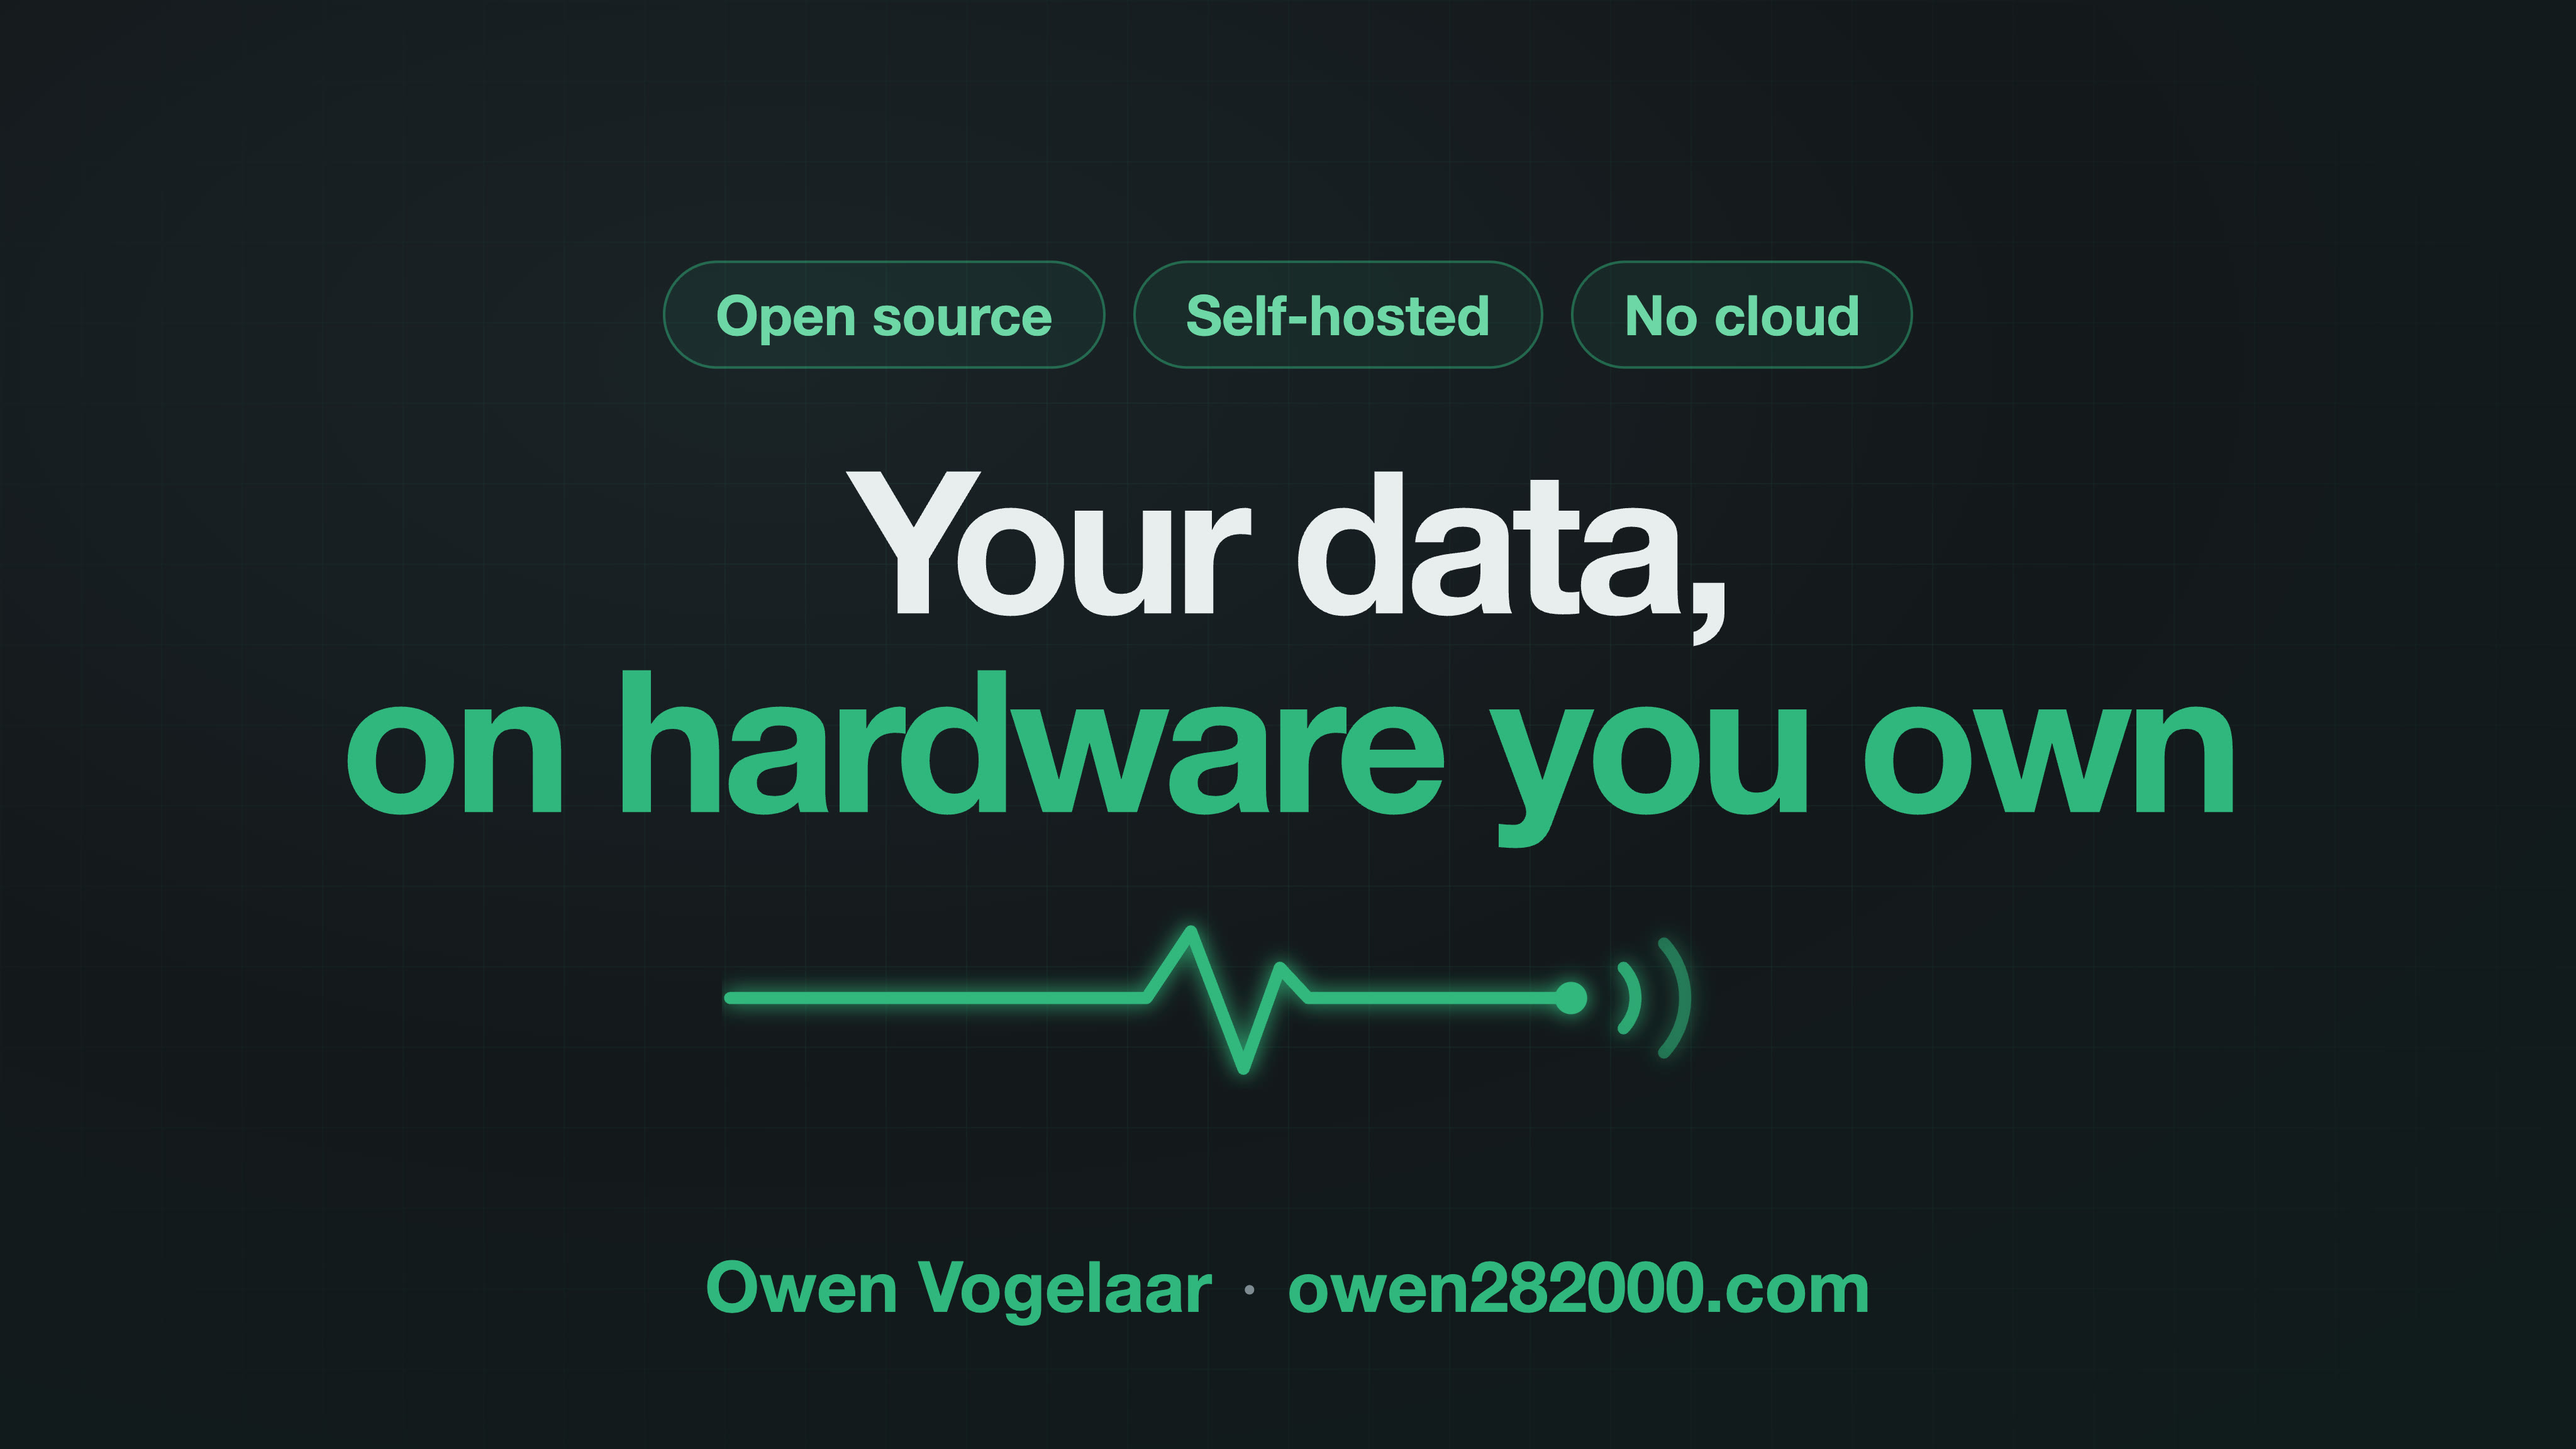
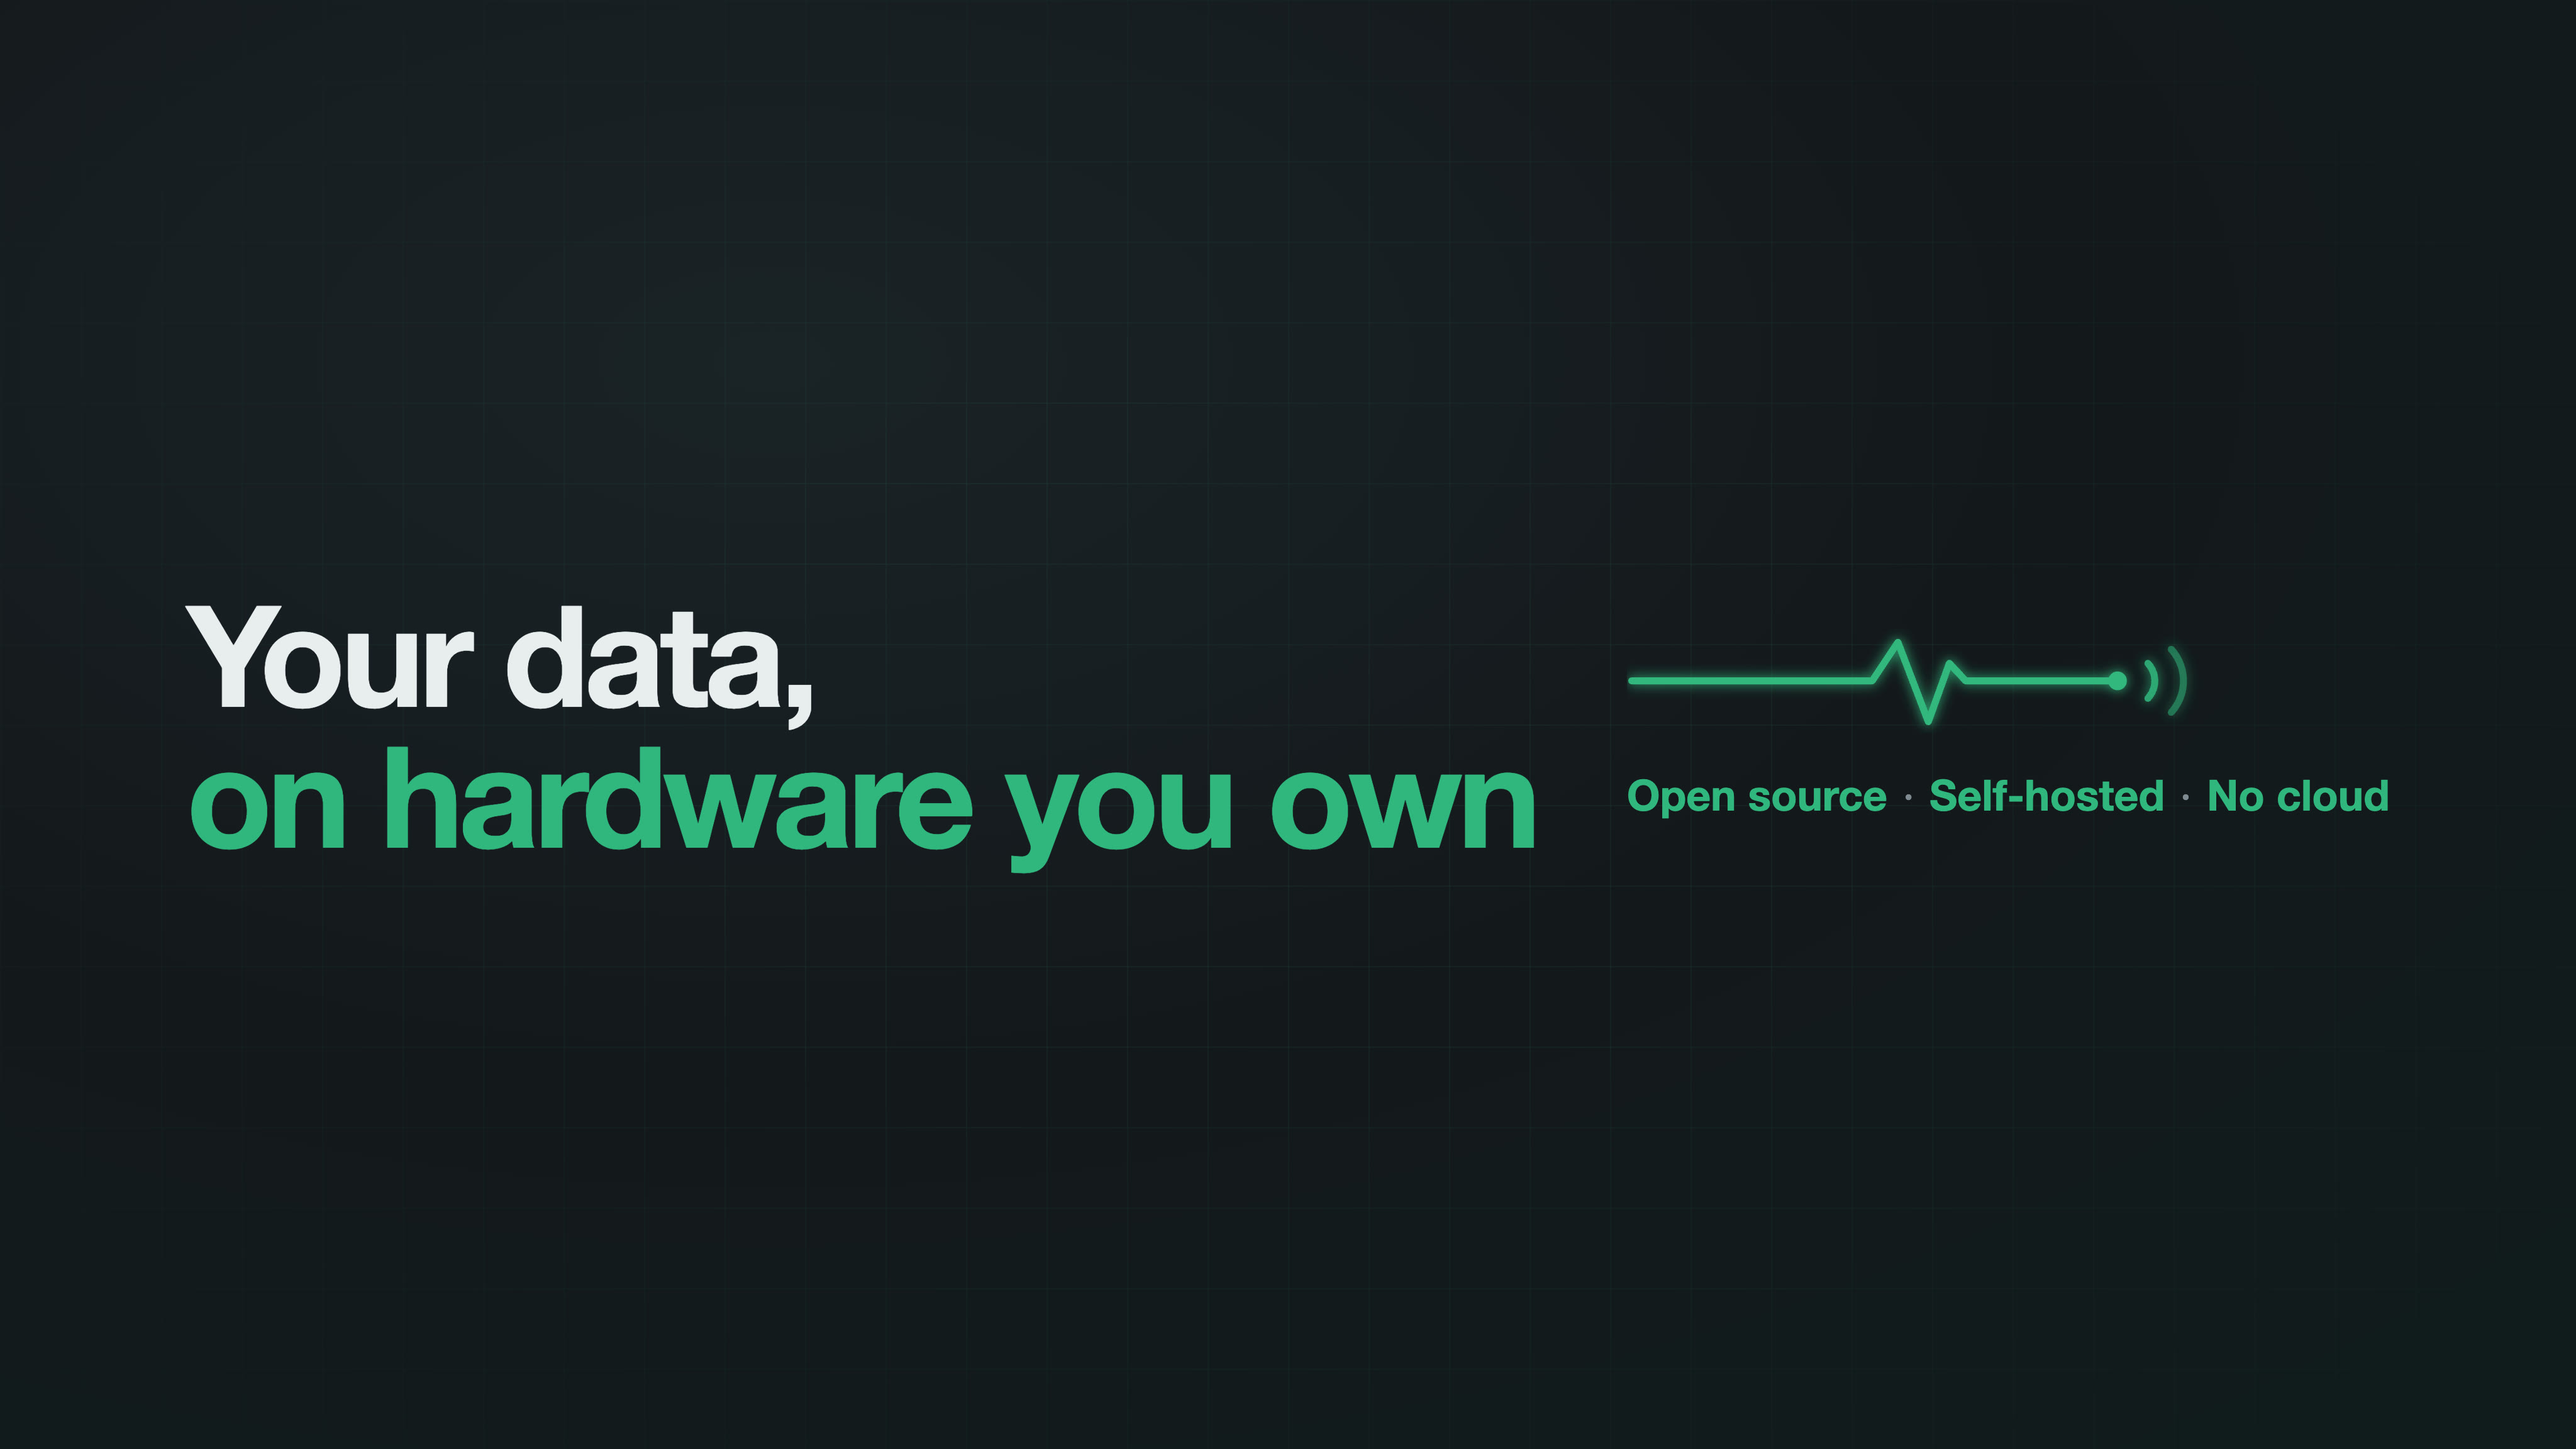
The Play developer header keeps everything in the band a desktop shows (#10)
On a desktop Google Play shows only a band through the middle of the header, about 4.7 times as wide as it is high, and cut off the eyebrow, the subline and the footer. The title, the heartbeat and the footer now sit side by side inside that band; a phone shows more of the grid around it. This is the version uploaded to the developer page.

diff --git a/docs/brand/developer-header.html b/docs/brand/developer-header.html
@@ -2,7 +2,8 @@
 <!--
   Source for developer-header.jpg: the header image on the Google Play developer page
   (4096 x 2304, JPEG under 1 MB). Laid out at 2048 x 1152 and rendered at scale 2.
-  Play crops the sides on small screens, so everything that matters sits in the middle.
+  On a desktop Play shows only a band through the middle, about 4.7 times as wide as it is high,
+  so everything sits inside that band; a phone shows more of the dark grid around it.
   Render with ./render.sh from this folder.
 -->
 <html>
@@ -16,32 +17,31 @@
   .grid { position: absolute; inset: 0;
           background-image: linear-gradient(rgba(48,183,126,0.06) 1px, transparent 1px), linear-gradient(90deg, rgba(48,183,126,0.06) 1px, transparent 1px);
           background-size: 64px 64px; -webkit-mask-image: radial-gradient(75% 85% at 50% 50%, #000 30%, transparent 85%); }
-  .center { position: absolute; left: 50%; top: 50%; transform: translate(-50%, -56%); width: 1940px; text-align: center; }
-  .eyebrow { display: inline-flex; gap: 22px; margin-bottom: 56px; }
-  .eyebrow span { font-size: 44px; font-weight: 600; color: #6FD7A6; border: 2px solid rgba(48,183,126,0.45);
-                  background: rgba(48,183,126,0.08); border-radius: 999px; padding: 14px 40px; }
-  h1 { font-size: 158px; font-weight: 700; letter-spacing: -6px; line-height: 1.0; }
+  /* The band Play shows on a desktop: the middle 436 of 1152 px. Everything stays inside it. */
+  .band { position: absolute; left: 0; right: 0; top: 358px; height: 436px; display: flex; align-items: center; justify-content: center; gap: 72px; }
+  h1 { font-size: 112px; font-weight: 700; letter-spacing: -4px; line-height: 1.0; }
   h1 span { color: #30B77E; display: block; }
-  .sub { margin: 36px auto 0; width: 1040px; font-size: 38px; line-height: 1.35; color: #C9D2D6; }
-  svg.beat { display: block; margin: 56px auto 0; width: 900px; }
-  .foot { position: absolute; left: 0; right: 0; bottom: 96px; text-align: center; font-size: 56px; font-weight: 700; color: #30B77E; }
-  .foot b { color: #7E8B91; font-weight: 400; margin: 0 22px; }
+  .side { display: flex; flex-direction: column; gap: 28px; }
+  svg.beat { display: block; width: 520px; }
+  .foot { font-size: 34px; font-weight: 700; color: #30B77E; }
+  .foot b { color: #7E8B91; font-weight: 400; margin: 0 12px; }
 </style>
 </head>
 <body>
 <div class="grid"></div>
-<div class="center">
-  <div class="eyebrow"><span>Open source</span><span>Self-hosted</span><span>No cloud</span></div>
+<div class="band">
   <h1>Your data,<span>on hardware you own</span></h1>
-  <svg class="beat" viewBox="0 0 560 90">
-    <defs><filter id="g" x="-10%" y="-60%" width="120%" height="220%"><feGaussianBlur stdDeviation="5" result="b"/><feMerge><feMergeNode in="b"/><feMergeNode in="SourceGraphic"/></feMerge></filter></defs>
-    <g filter="url(#g)" stroke="#30B77E" fill="none" stroke-linecap="round" stroke-linejoin="round" stroke-width="6">
-      <path d="M4 45 H210 L232 12 L258 80 L276 30 L290 45 H420"/>
-      <circle cx="420" cy="45" r="8" fill="#30B77E" stroke="none"/>
-      <path d="M446 30 A22 22 0 0 1 446 60" opacity=".85"/><path d="M466 18 A40 40 0 0 1 466 72" opacity=".5"/>
-    </g>
-  </svg>
+  <div class="side">
+    <svg class="beat" viewBox="0 0 560 90">
+      <defs><filter id="g" x="-10%" y="-60%" width="120%" height="220%"><feGaussianBlur stdDeviation="5" result="b"/><feMerge><feMergeNode in="b"/><feMergeNode in="SourceGraphic"/></feMerge></filter></defs>
+      <g filter="url(#g)" stroke="#30B77E" fill="none" stroke-linecap="round" stroke-linejoin="round" stroke-width="6">
+        <path d="M4 45 H210 L232 12 L258 80 L276 30 L290 45 H420"/>
+        <circle cx="420" cy="45" r="8" fill="#30B77E" stroke="none"/>
+        <path d="M446 30 A22 22 0 0 1 446 60" opacity=".85"/><path d="M466 18 A40 40 0 0 1 466 72" opacity=".5"/>
+      </g>
+    </svg>
+    <p class="foot">Open source<b>·</b>Self-hosted<b>·</b>No cloud</p>
+  </div>
 </div>
-<p class="foot">Owen Vogelaar<b>·</b>owen282000.com</p>
 </body>
 </html>
